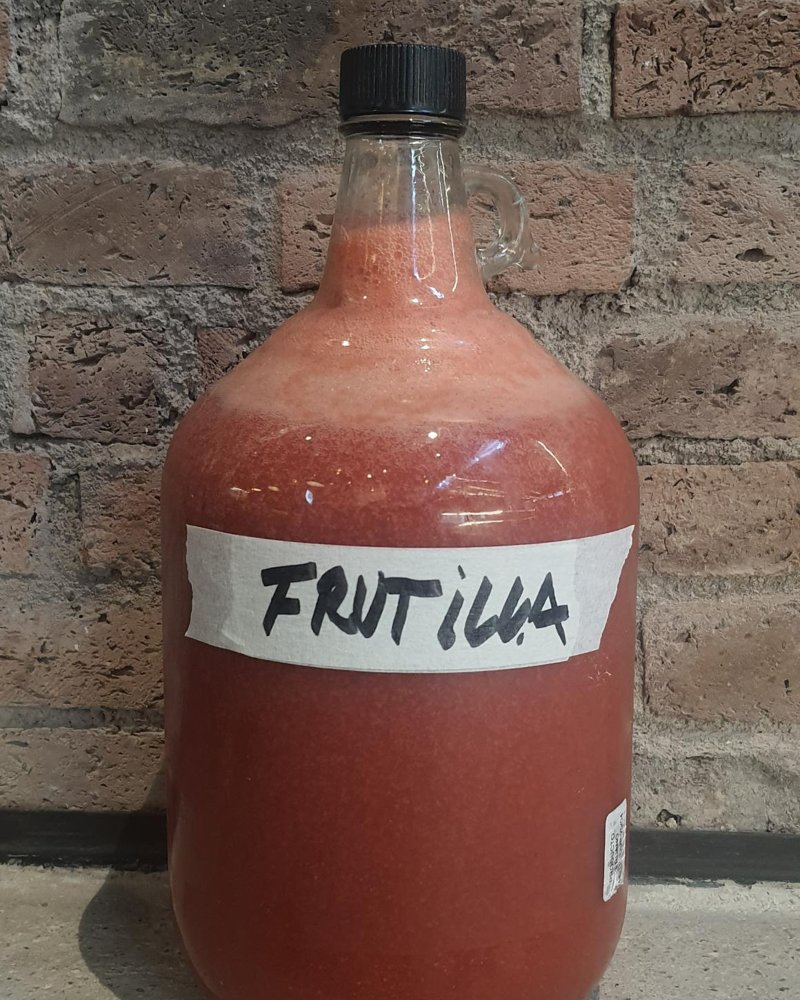
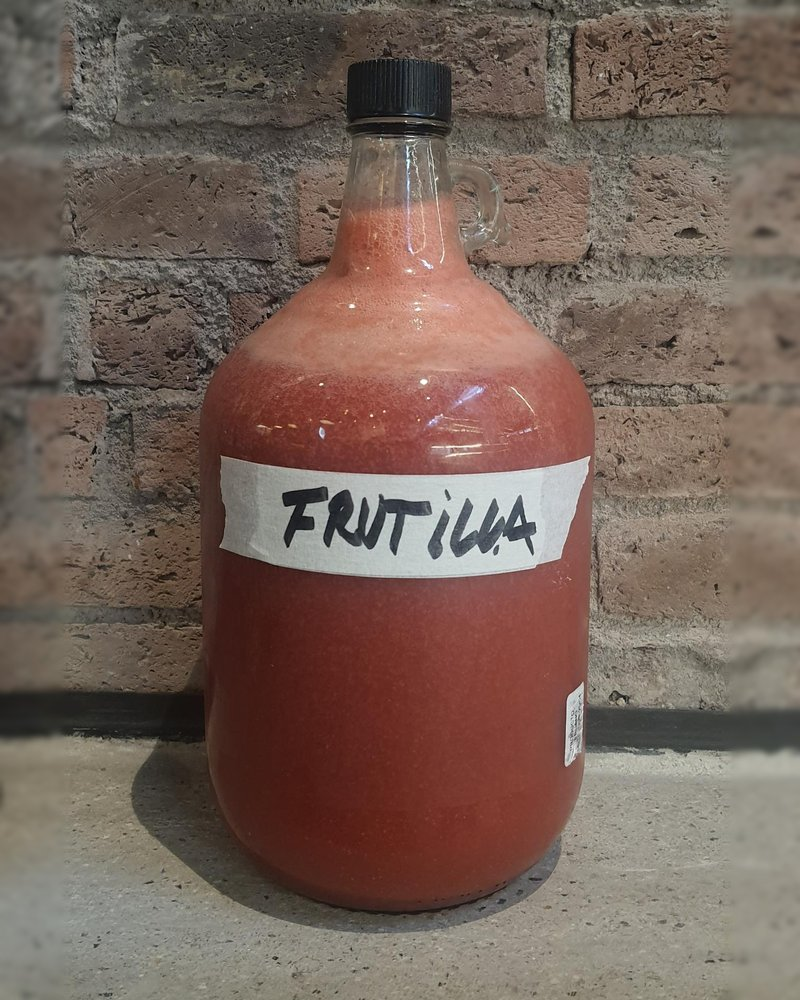
Jugos: botellas del mismo tamaño y posición en la foto
Claude-Session: https://claude.ai/code/session_019MoS2hn62rMDpRnL1fqsn9

diff --git a/carta/index.html b/carta/index.html
@@ -508,13 +508,13 @@ const RECETAS={
   steps:['Hervir 4 L de agua.','Verter el agua hirviendo en un bowl con 120 g de flor de hibiscus deshidratada.','Dejar reposar entre 12 y 24 horas.','Colar y agregar 500 g de azúcar.','Traspasar a la garrafa de 4 L.','Llenar la botella de 1 L para la barra.'],
   para:['Dolce Rosso']},
  'Jugo de mango':{prep:1,id:'prep-mango',sec:'bases',cat:0,name:'Jugo de Mango',
-  foto:'../assets/preparados/jugo-mango.jpg?v=2',botella:'4 L',forma:'garrafa',
+  foto:'../assets/preparados/jugo-mango.jpg?v=3',botella:'4 L',forma:'garrafa',
   ing:[{n:'1ª juguerada',sub:'colada',ml:2000,pct:50,col:'#f2b632'},{n:'2ª juguerada',sub:'colada',ml:2000,pct:50,col:'#f7c955'}],
   tanda:{t:'Por juguerada · se hace 2 veces',f:[['Pulpa de mango','','1 kg'],['Agua','','hasta 2000 ml']]},
   flow:[['juguera','En la juguera','1 kg pulpa + agua','2000 ml'],['colar','Licuar y colar','',''],['garrafa','A la garrafa','1ª juguerada','2 L'],['repetir','Repetir una vez','2ª juguerada','4 L']],
   para:[]},
  'Jugo de frutilla':{prep:1,id:'prep-frutilla',sec:'bases',cat:0,name:'Jugo de Frutilla',
-  foto:'../assets/preparados/jugo-frutilla.jpg',botella:'4 L',forma:'garrafa',
+  foto:'../assets/preparados/jugo-frutilla.jpg?v=2',botella:'4 L',forma:'garrafa',
   ing:[{n:'1ª juguerada',sub:'colada',ml:2000,pct:50,col:'#c8463e'},{n:'2ª juguerada',sub:'colada',ml:2000,pct:50,col:'#d65b52'}],
   tanda:{t:'Por juguerada · se hace 2 veces',f:[['Pulpa de frutilla','','1 kg'],['Azúcar','','6 tazas'],['Agua','','hasta 2000 ml']]},
   flow:[['juguera','En la juguera','1 kg pulpa + agua','2000 ml'],['azucar','Echar el azúcar','en la juguera','6 tazas'],['colar','Licuar y colar','',''],['garrafa','A la garrafa','1ª juguerada','2 L'],['repetir','Repetir una vez','2ª juguerada','4 L']],
@@ -529,7 +529,7 @@ const RECETAS={
 };
 const REC_ID=Object.fromEntries(Object.values(RECETAS).map(r=>[r.id,r]));
 /* fotos por trago (nombre exacto → archivo en assets/tragos). Las que faltan muestran la copa dibujada */
-const FOTOS={'Jugo de frutilla':'../preparados/jugo-frutilla.jpg','Jamaica en botella':'../preparados/jamaica.jpg','Jugo de mango':'../preparados/jugo-mango.jpg?v=2','Dolce Rosso':'dolce-rosso.jpg','Pisco Sour en botella':'../preparados/pisco-sour.jpg','Limonada en botella':'../preparados/limonada.jpg','Ramazzotti Tradicional':'ramazzotti/card.jpg?v=4','Tequila Margarita':'margarita.jpg?v=3','Fresco Pasión':'fresco-pasion.jpg?v=2','Aperol Spritz':'aperol-spritz.jpg','Orange Spritz':'orange-spritz.jpg','Pisco Sour':'pisco-sour.jpg?v=3','Limonada':'limonada.jpg'};
+const FOTOS={'Jugo de frutilla':'../preparados/jugo-frutilla.jpg?v=2','Jamaica en botella':'../preparados/jamaica.jpg','Jugo de mango':'../preparados/jugo-mango.jpg?v=3','Dolce Rosso':'dolce-rosso.jpg','Pisco Sour en botella':'../preparados/pisco-sour.jpg','Limonada en botella':'../preparados/limonada.jpg','Ramazzotti Tradicional':'ramazzotti/card.jpg?v=4','Tequila Margarita':'margarita.jpg?v=3','Fresco Pasión':'fresco-pasion.jpg?v=2','Aperol Spritz':'aperol-spritz.jpg','Orange Spritz':'orange-spritz.jpg','Pisco Sour':'pisco-sour.jpg?v=3','Limonada':'limonada.jpg'};
 const IMG_LISTA=['aperitivi','mocktails','birre','jugos','digestivi','vinos','caffe','bases'];
 const IMG_POS={mocktails:'100%',jugos:'100%',digestivi:'100%',caffe:'35%',bases:'80%'};
 
